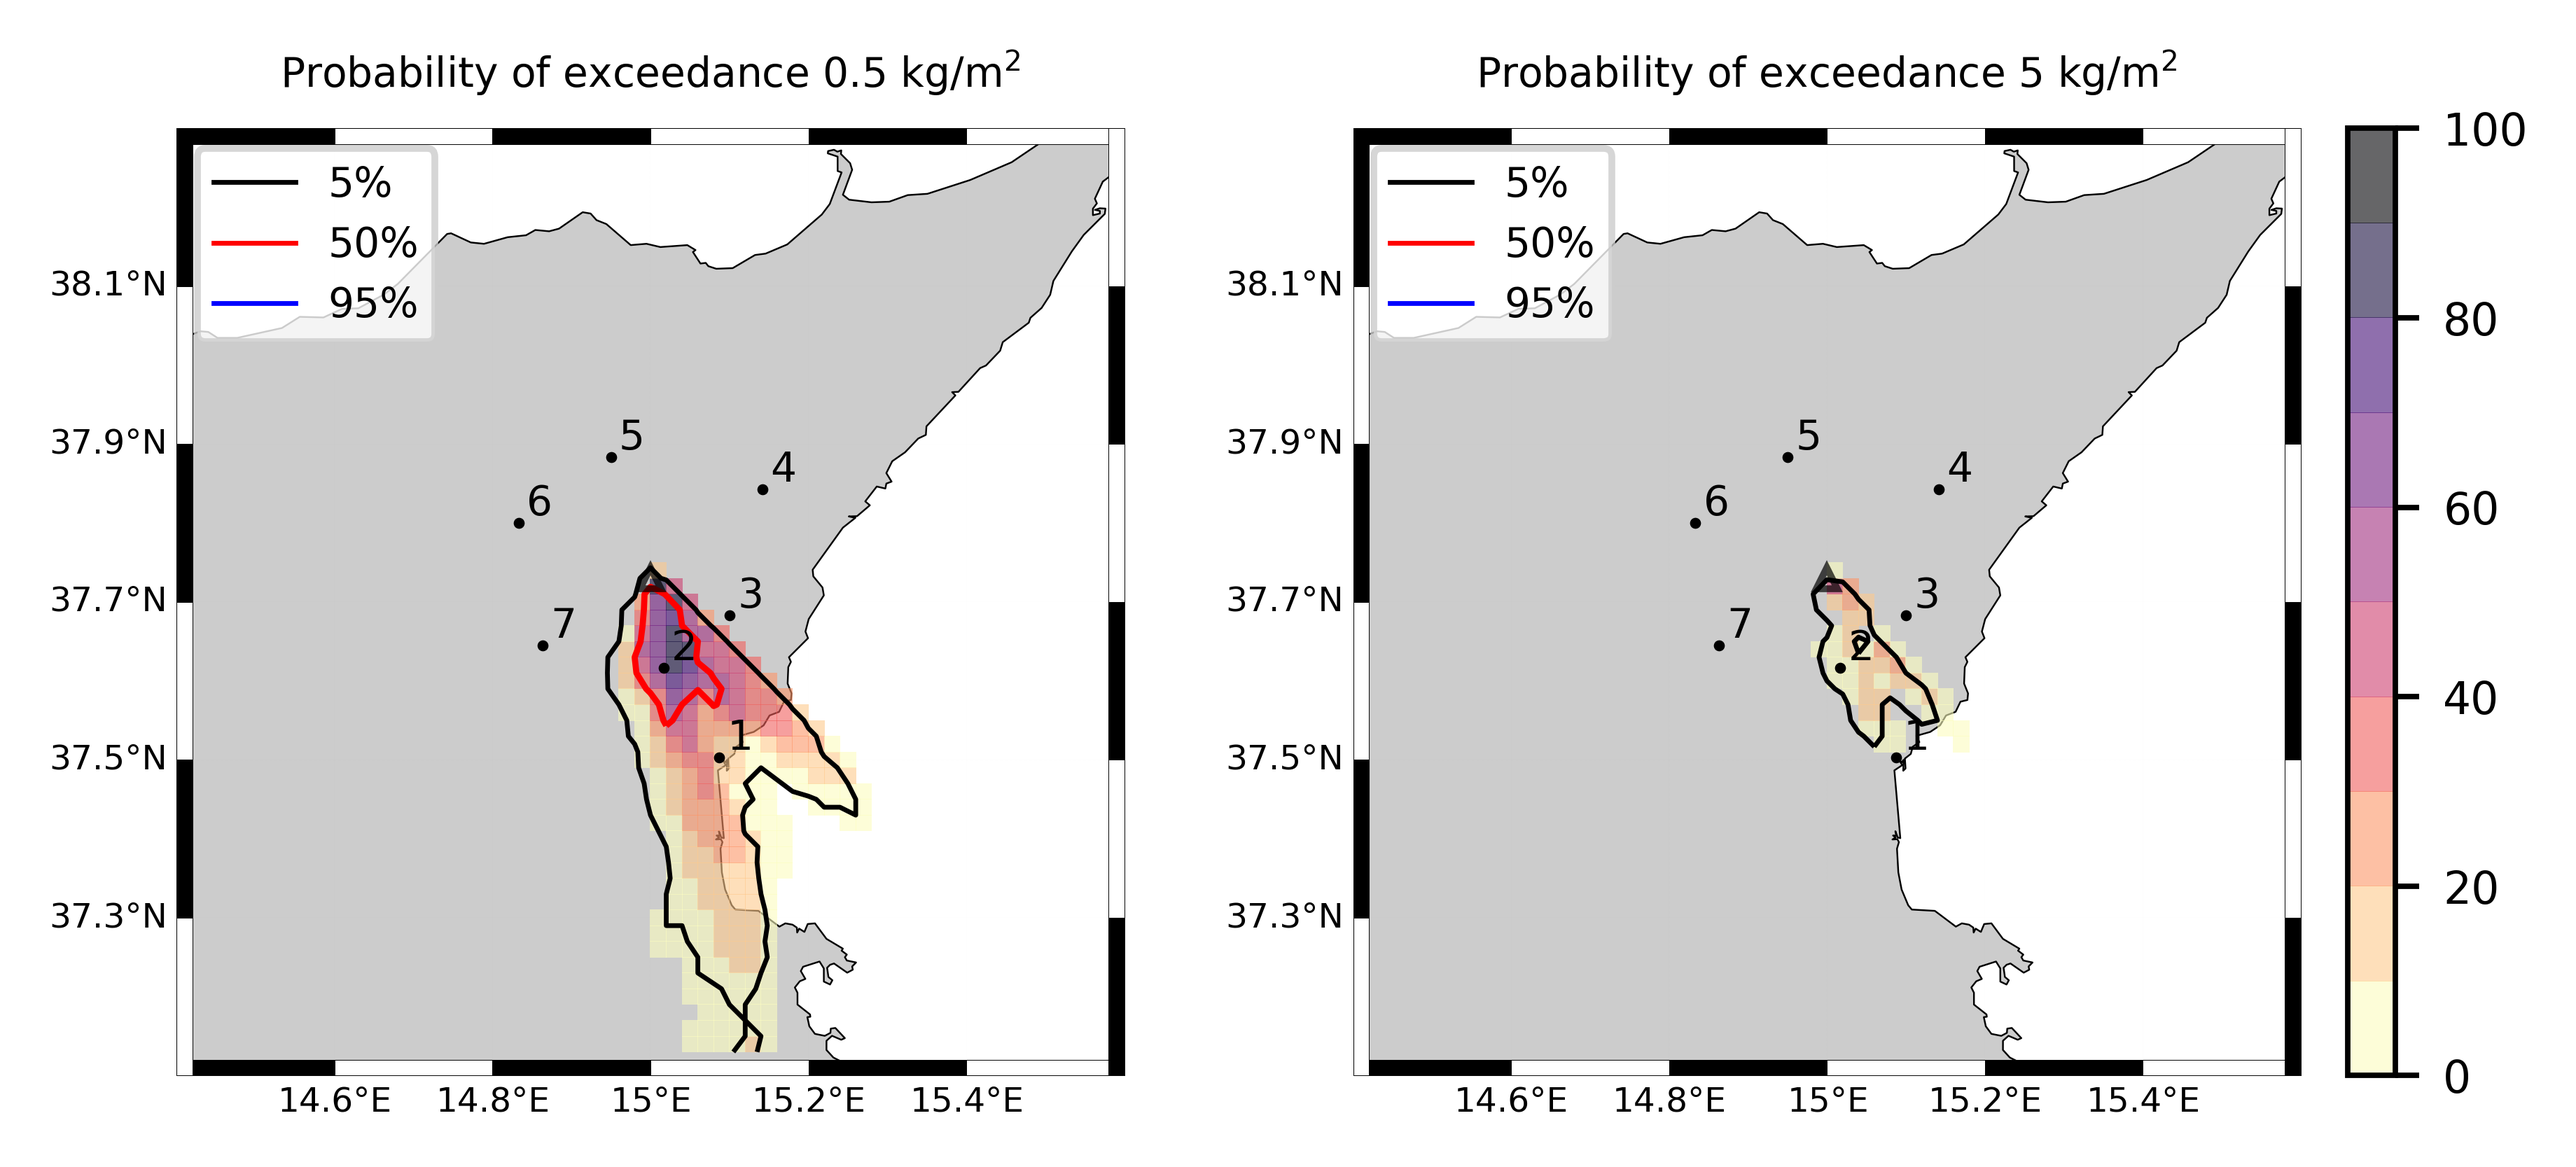
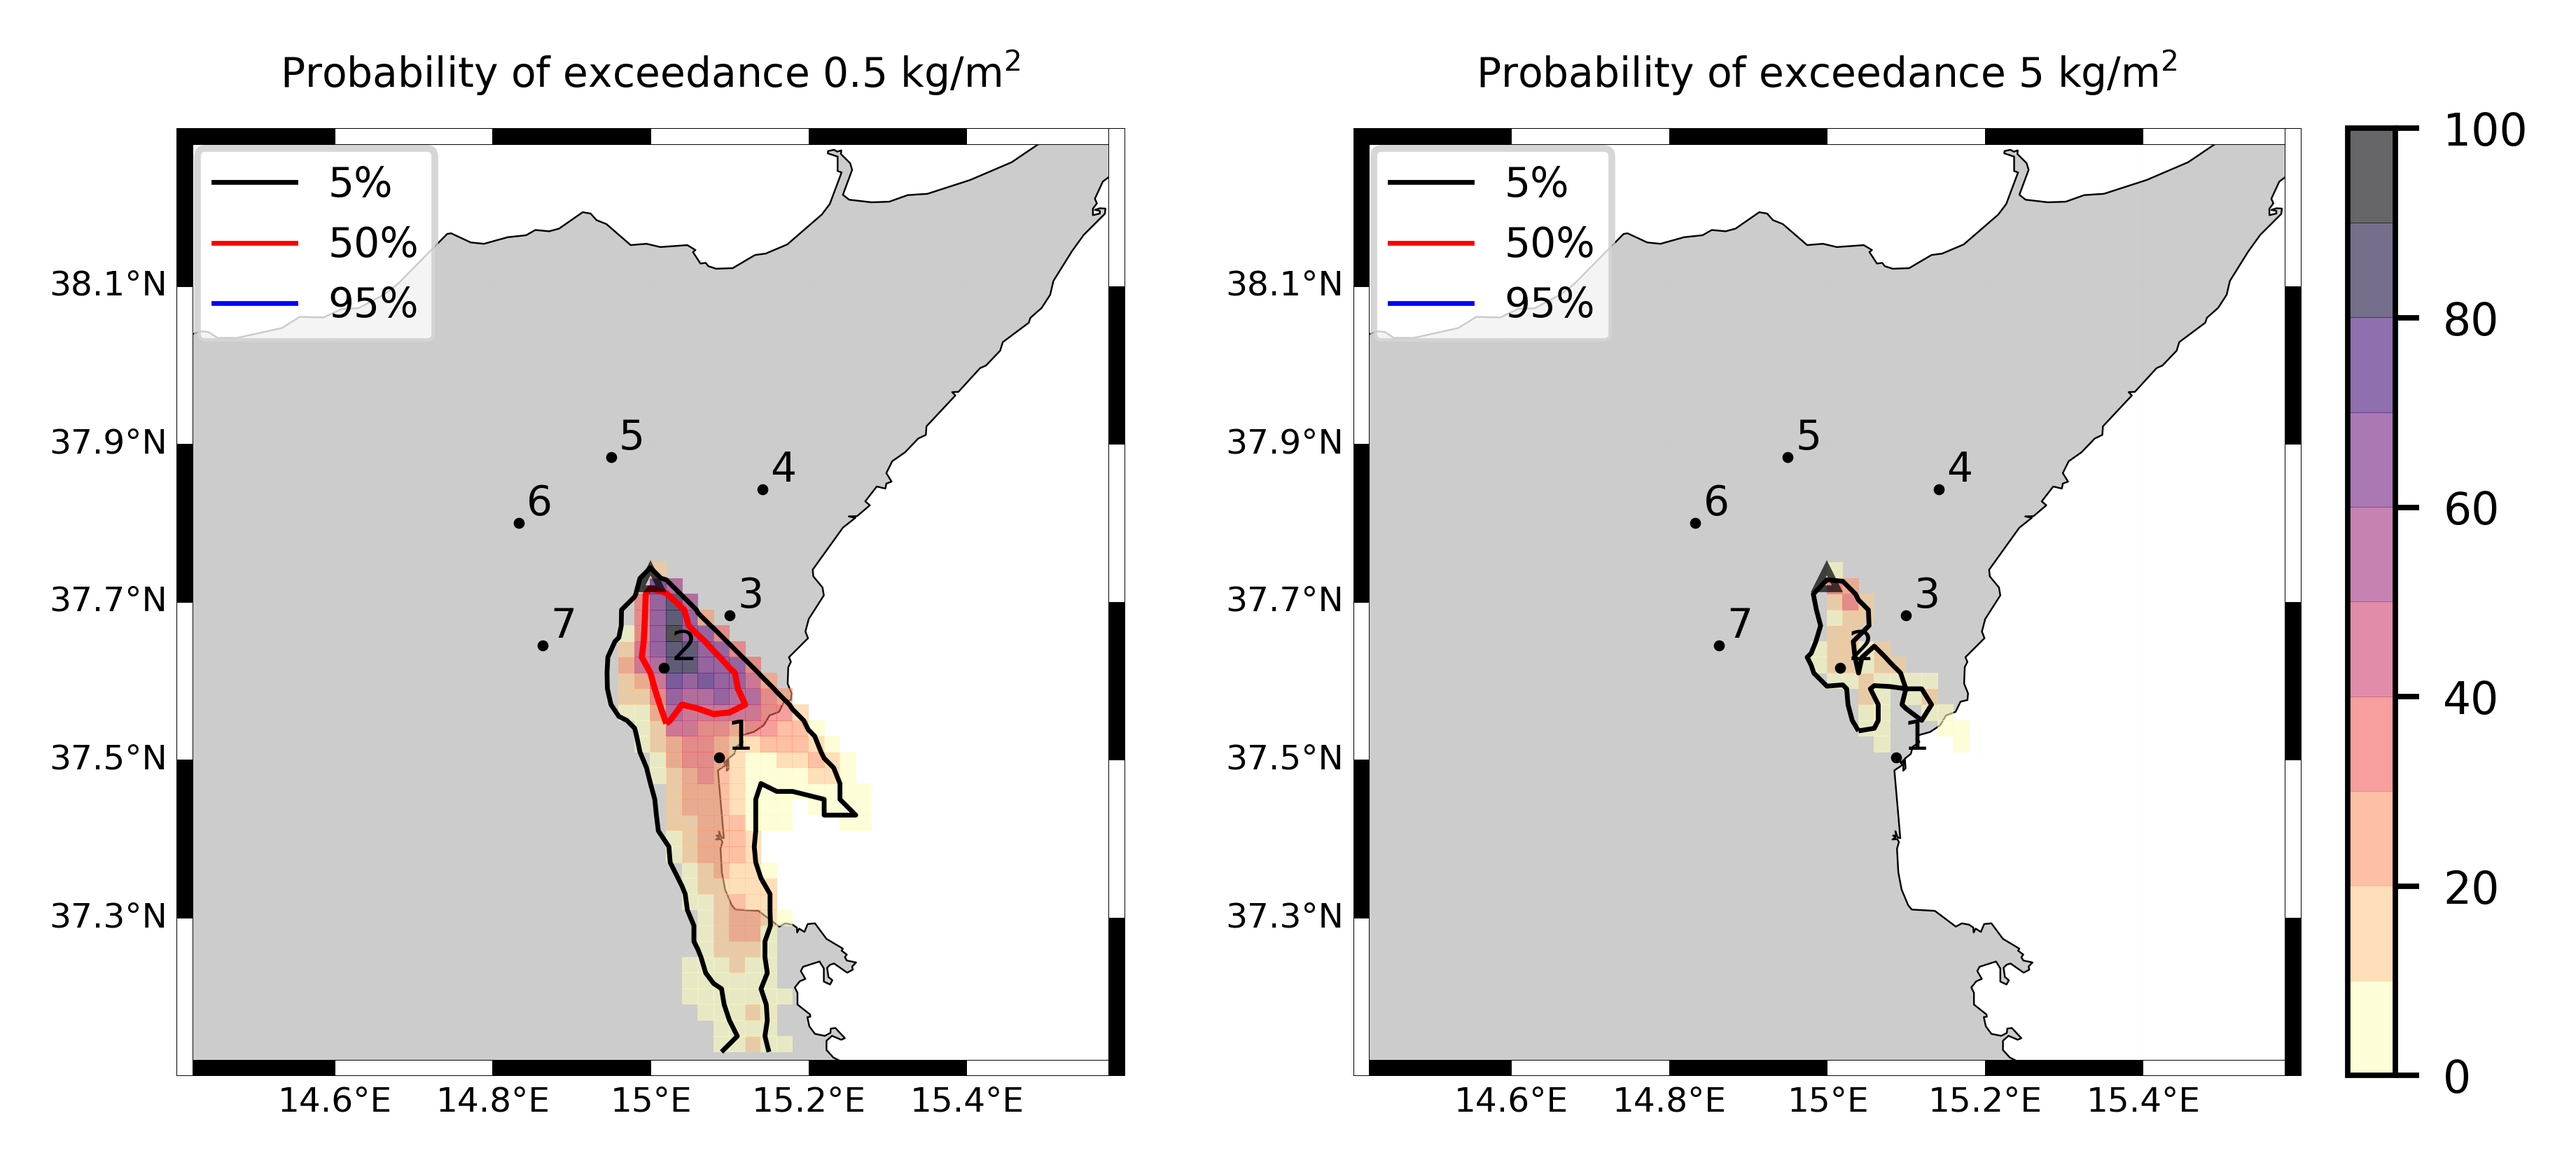
upload results

Changed region(s): [[0.2169, 0.4991, 0.3409, 0.9046], [0.6817, 0.4991, 0.7747, 0.6551]]

diff --git a/FORECAST_RESULTS/20210216_1631Z/README.md b/FORECAST_RESULTS/20210216_1631Z/README.md
@@ -7,6 +7,7 @@ Contents
 
 * [Forecast products](#forecast-products)
 	* [Forecast at 2021-02-16 17:30 Z from RED VONA issued at 20210216_1631Z](#forecast-at-2021-02-16-1730-z-from-red-vona-issued-at-20210216_1631z)
+	* [Forecast at 2021-02-16 18:30 Z from RED VONA issued at 20210216_1631Z](#forecast-at-2021-02-16-1830-z-from-red-vona-issued-at-20210216_1631z)
 
 # Forecast products
 
@@ -49,6 +50,46 @@ Contents
 
 ### Atmosphere 2021-02-16 17:30 Z
   
-![](./figures/probability_air_2021_02_16_1730_grid_2_conclev_1_1.png)  
+![](./figures/probability_air_2021_02_16_1730_grid_2_conclev_1_1.png)
+## Forecast at 2021-02-16 18:30 Z from RED VONA issued at 20210216_1631Z
+  
+
+|Eruption start [Z]|Eruption end [Z]|Forecast time [Z]|Column height asl [m]|
+| :--- | :--- | :--- | :--- |
+|2021-02-16 16:30:00|Ongoing|2021-02-16 18:30:00|6000 ± 500 - from VONA|
+  
+  
+
+|Percentile|MER [kg/s¹]|Mass air [kg]|Mass air nested dom. [kg]|Mass grd [kg]|Mass grd nested dom. [kg]|
+| :--- | :--- | :--- | :--- | :--- | :--- |
+|5th|2.38e+04|5.64e+07|3.42e+07|2.00e+08|2.00e+08|
+|50th|8.24e+04|1.12e+08|1.03e+08|4.93e+08|4.77e+08|
+|95th|1.87e+05|2.21e+08|1.83e+08|9.51e+08|9.20e+08|
+  
+
+### Ground Nested Domain 2021-02-16 18:30 Z
+  
+![](./figures/probability_grd_2021_02_16_1830_grid_1_2.png)  
+  
+  
+  
+  
+  
+  
+
+|Location|Ground load [kg/m²] 5th perc|Ground load [kg/m²] 50th perc|Ground load [kg/m²] 95th perc|
+| :--- | :--- | :--- | :--- |
+|Catania AP (1)|9.03e-04|1.23e-01|1.36e+00|
+|Nicolosi (2)|3.90e-01|1.87e+00|6.47e+00|
+|Zafferana (3)|0.00e+00|2.83e-05|1.24e-03|
+|Linguaglossa (4)|0.00e+00|0.00e+00|0.00e+00|
+|Randazzo (5)|0.00e+00|0.00e+00|0.00e+00|
+|Bronte (6)|0.00e+00|0.00e+00|0.00e+00|
+|Biancavilla (7)|0.00e+00|0.00e+00|0.00e+00|
+  
+
+### Atmosphere 2021-02-16 18:30 Z
+  
+![](./figures/probability_air_2021_02_16_1830_grid_2_conclev_1_2.png)  
 Go to [Supplementary page](Supplementary_page.md)  
 Go to [Main directory](https://github.com/federicapardini/Real_time_ash_forecast)
